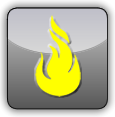
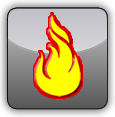
Se termina fachada de carga desde el maestro

Changed region(s): [[0.287, 0.1026, 0.7304, 0.8462]]

diff --git a/assets/js/visor.min.js b/assets/js/visor.min.js
@@ -1,1 +1,1 @@
-var VisorMapa={map:null,canvas:null,emergencyDrawingManager:null,emergencyMarker:null,emergencyRadius:null,otherDrawingManager:null,otherControlColor:null,otherControlSelected:null};(function(){var e=function(){var e=$("#iRadioEmergencia").val();if(""==e.trim())return $("#iRadioEmergencia").closest("div").addClass("has-error"),!1;if($("#iRadioEmergencia").val("0"),$("#mRadioEmergencia").modal("hide"),0==e)return!0;this.emergencyRadius=new google.maps.Circle({map:this.map,radius:parseInt(e),fillColor:"#FF0000",center:{lat:this.emergencyMarker.position.G,lng:this.emergencyMarker.position.K}});var a=new google.maps.InfoWindow({content:"Radio de la emergencia"});this.emergencyRadius.addListener("click",function(e){a.setPosition(e.latLng),a.open(this.map)})},a=function(){if(!$("#botoneraColorControl a.selected").length)return $("#botoneraColorControl").closest("div").addClass("has-error"),!1;if(!$("#iTituloComponente").val())return $("#iTituloComponente").closest("div").addClass("has-error"),!1;$("#ctrlDraw").addClass("btn-success").removeClass("btn-primary"),this.otherDrawingManager.setDrawingMode(this.otherControlSelected.overlay),this.otherDrawingManager.setMap(this.map),this.otherControlSelected.title=$("#iTituloComponente").val();for(var e=["polygonOptions","circleOptions","rectangleOptions"],a=0;a<e.length;a++)this.otherDrawingManager.set(e[a],{fillColor:this.otherControlColor});this.otherDrawingManager.set("polylineOptions",{strokeColor:this.otherControlColor}),$("#mOtrosEmergencias").modal("hide")};this.init=function(r){var o=this;this.canvas=$("#mapa").get(0),$(window).resize(this.detectHeight.bind(this));var n={center:new google.maps.LatLng(-33.0507081,-71.6110485),mapTypeId:google.maps.MapTypeId.ROADMAP,zoom:8},i=$.extend(n,r);this.detectHeight.call(this),this.map=new google.maps.Map(this.canvas,i),this.makeSearchBox.call(this),this.makeEmergencyDrawManager.call(this),this.makeOthersManager.call(this),$("#btnGuardarRadioEmergencia").click(e.bind(this)),$("#btnGuardarOtrosEmergencia").click(a.bind(this)),$("#mRadioEmergencia").on("shown.bs.modal",function(){$("#iRadioEmergencia").focus(),$("#iRadioEmergencia").select()}),$("#frmRadioEmergencia").submit(function(){return $("#btnGuardarRadioEmergencia").click(),!1}),$("#botoneraColorControl a").click(function(){$("#botoneraColorControl a i").removeClass("fa fa-check-circle-o"),$(this).find("i").addClass("fa fa-check-circle-o"),$(this).addClass("selected"),o.otherControlColor=Utils.rgb2hex($(this).css("background-color"))})},this.makeEmergencyDrawManager=function(){var e=this;this.emergencyDrawingManager=new google.maps.drawing.DrawingManager({drawingMode:google.maps.drawing.OverlayType.MARKER,drawingControl:!1,drawingControlOptions:{position:google.maps.ControlPosition.TOP_CENTER,drawingModes:[google.maps.drawing.OverlayType.MARKER]},clickable:!1,editable:!0,zIndex:1}),this.emergencyDrawingManager.setMap(null),function(a,r){var o=function(){e.emergencyDrawingManager.setDrawingMode(r),e.emergencyDrawingManager.setMap(e.map);var a=$(this).parents("div").first().find("a.btn");a.removeClass("btn-primary"),a.addClass("btn-success"),$(".ctrlPowerOff").css("display","block"),event.preventDefault(),event.stopPropagation()};$("#"+a).on("click",o)}("ctrlDrawMarker",google.maps.drawing.OverlayType.MARKER),$("#ctrlDrawOFF").click(function(){e.emergencyDrawingManager.setMap(null),e.otherDrawingManager.setMap(null);var a=$(this).parents("div").first().find("a.btn");a.removeClass("btn-success"),a.addClass("btn-primary"),$(".ctrlPowerOff").css("display","none")}),google.maps.event.addListener(this.emergencyDrawingManager,"overlaycomplete",function(a){e.emergencyMarker&&(e.emergencyMarker.setMap(null),e.emergencyRadius&&e.emergencyRadius.setMap(null));var r=new google.maps.InfoWindow({content:"Lugar de la emergencia"});if(a.type==google.maps.drawing.OverlayType.MARKER){var o=a.overlay;e.emergencyMarker=o,e.emergencyMarker.addListener("click",function(){r.open(e.map,e.emergencyMarker)}),$("#mRadioEmergencia").modal("show"),$("#iRadioEmergencia").closest("div").removeClass("has-error")}$("#ctrlDrawOFF").click()})},this.makeOthersManager=function(){var e=this;this.otherDrawingManager=new google.maps.drawing.DrawingManager({drawingMode:google.maps.drawing.OverlayType.MARKER,drawingControl:!1,drawingControlOptions:{position:google.maps.ControlPosition.TOP_CENTER,drawingModes:[google.maps.drawing.OverlayType.MARKER,google.maps.drawing.OverlayType.CIRCLE,google.maps.drawing.OverlayType.RECTANGLE,google.maps.drawing.OverlayType.POLYLINE,google.maps.drawing.OverlayType.POLYGON]},clickable:!1,editable:!0,zIndex:1}),this.otherDrawingManager.setMap(null);for(var a=[{id:"ctrlOtherDrawLine",overlay:google.maps.drawing.OverlayType.POLYLINE},{id:"ctrlOtherDrawPolygon",overlay:google.maps.drawing.OverlayType.POLYGON},{id:"ctrlOtherDrawCircle",overlay:google.maps.drawing.OverlayType.CIRCLE},{id:"ctrlOtherDrawRectangle",overlay:google.maps.drawing.OverlayType.RECTANGLE},{id:"ctrlOtherDrawMarker",overlay:google.maps.drawing.OverlayType.MARKER}],r=0;r<a.length;r++)!function(e,a){var r=function(){$("#mOtrosEmergencias").modal("show"),e.otherControlSelected=a};$("#"+a.id).on("click",r)}(this,a[r]);google.maps.event.addListener(this.otherDrawingManager,"overlaycomplete",function(a){var r=a.overlay,o=new google.maps.InfoWindow({content:e.otherControlSelected.title}),n=[google.maps.drawing.OverlayType.POLYGON,google.maps.drawing.OverlayType.CIRCLE,google.maps.drawing.OverlayType.RECTANGLE];console.log(a.type,n),-1!=n.indexOf(a.type)&&r.addListener("click",function(a){o.setPosition(a.latLng),o.open(e.map)}),$("#ctrlDrawOFF").click()})},this.loadKML=function(){var e=new google.maps.KmlLayer({url:"http://ssrv.cl/sipresa_test/kml.php",map:this.map,suppressInfoWindows:!0,preserveViewport:!1});e.addListener("click",function(e){var a=e.featureData.infoWindowHtml,r=document.getElementById("capture");r.innerHTML=a})},this.detectHeight=function(){$(this.canvas).css("height",$("html").height()-$("div.header").height()+"px")},this.makeSearchBox=function(){var e=$("#input-buscador-mapa").get(0),a=new google.maps.places.SearchBox(e),r=this,o=[];this.map.controls[google.maps.ControlPosition.TOP_LEFT].push(e),this.map.addListener("bounds_changed",function(){a.setBounds(r.map.getBounds())}),a.addListener("places_changed",function(){var e=a.getPlaces();if(0!=e.length){o.forEach(function(e){e.setMap(null)}),o=[];var n=new google.maps.LatLngBounds;e.forEach(function(e){var a={url:e.icon,size:new google.maps.Size(71,71),origin:new google.maps.Point(0,0),anchor:new google.maps.Point(17,34),scaledSize:new google.maps.Size(25,25)};o.push(new google.maps.Marker({map:r.map,icon:a,title:e.name,position:e.geometry.location})),e.geometry.viewport?n.union(e.geometry.viewport):n.extend(e.geometry.location)}),r.map.fitBounds(n)}})}}).apply(VisorMapa);
+var VisorMapa={map:null,canvas:null,emergencyDrawingManager:null,emergencyMarker:null,emergencyRadius:null,otherDrawingManager:null,otherControlColor:null,otherControlSelected:null};(function(){var e=function(){var e=$("#iRadioEmergencia").val();if(""==e.trim())return $("#iRadioEmergencia").closest("div").addClass("has-error"),!1;if($("#iRadioEmergencia").val("0"),$("#mRadioEmergencia").modal("hide"),0==e)return!0;this.emergencyRadius=new google.maps.Circle({map:this.map,radius:parseInt(e),fillColor:"#FF0000",center:{lat:this.emergencyMarker.position.G,lng:this.emergencyMarker.position.K}});var a=new google.maps.InfoWindow({content:"Radio de la emergencia"});this.emergencyRadius.addListener("click",function(e){a.setPosition(e.latLng),a.open(this.map)})},a=function(){if(!$("#botoneraColorControl a.selected").length)return $("#botoneraColorControl").closest("div").addClass("has-error"),!1;if(!$("#iTituloComponente").val())return $("#iTituloComponente").closest("div").addClass("has-error"),!1;$("#ctrlDraw").addClass("btn-success").removeClass("btn-primary"),this.otherDrawingManager.setDrawingMode(this.otherControlSelected.overlay),this.otherDrawingManager.setMap(this.map),this.otherControlSelected.title=$("#iTituloComponente").val();for(var e=["polygonOptions","circleOptions","rectangleOptions"],a=0;a<e.length;a++)this.otherDrawingManager.set(e[a],{fillColor:this.otherControlColor});this.otherDrawingManager.set("polylineOptions",{strokeColor:this.otherControlColor}),$("#mOtrosEmergencias").modal("hide")};this.init=function(n){var o=this;this.canvas=$("#mapa").get(0),$(window).resize(this.detectHeight.bind(this));var r={center:new google.maps.LatLng(-33.0507081,-71.6110485),mapTypeId:google.maps.MapTypeId.ROADMAP,zoom:8},i=$.extend(r,n);this.detectHeight.call(this),this.map=new google.maps.Map(this.canvas,i),this.makeSearchBox.call(this),this.makeEmergencyDrawManager.call(this),this.makeOthersManager.call(this),$("#btnGuardarRadioEmergencia").click(e.bind(this)),$("#btnGuardarOtrosEmergencia").click(a.bind(this)),$("#mRadioEmergencia").on("shown.bs.modal",function(){$("#iRadioEmergencia").focus(),$("#iRadioEmergencia").select()}),$("#frmRadioEmergencia").submit(function(){return $("#btnGuardarRadioEmergencia").click(),!1}),$("#botoneraColorControl a").click(function(){$("#botoneraColorControl a i").removeClass("fa fa-check-circle-o"),$(this).find("i").addClass("fa fa-check-circle-o"),$(this).addClass("selected"),o.otherControlColor=Utils.rgb2hex($(this).css("background-color"))}),this.constructControlIns.call(this)},this.constructControlIns=function(){$("#tblTiposIns").DataTable({language:{url:baseUrl+"assets/lib/DataTables-1.10.8/Spanish.json"},ajax:{url:siteUrl+"instalacion/obtenerJsonTipos",type:"GET",async:!0},columns:[{mRender:function(e,a,n){return'<input id="iTipIns'+n.aux_ia_id+'" name="iTipIns[]" type="checkbox"/>'}},{data:"amb_c_nombre"},{data:"aux_c_nombre"}],pagingType:"simple"});$("#ctrlIns").click(function(){$("#mMaestroInstalaciones").modal("show")}),$("#btnCargarIns").click(function(){this.loadKML("http://ssrv.cl/emergencias_test/eleam.php"),$("#mMaestroInstalaciones").modal("hide")})},this.makeEmergencyDrawManager=function(){var e=this;this.emergencyDrawingManager=new google.maps.drawing.DrawingManager({drawingMode:google.maps.drawing.OverlayType.MARKER,drawingControl:!1,drawingControlOptions:{position:google.maps.ControlPosition.TOP_CENTER,drawingModes:[google.maps.drawing.OverlayType.MARKER]},clickable:!1,editable:!0,zIndex:1}),this.emergencyDrawingManager.setMap(null),function(a,n){var o=function(){e.emergencyDrawingManager.setDrawingMode(n),e.emergencyDrawingManager.setMap(e.map);var a=$(this).parents("div").first().find("a.btn");a.removeClass("btn-primary"),a.addClass("btn-success"),$(".ctrlPowerOff").css("display","block"),event.preventDefault(),event.stopPropagation()};$("#"+a).on("click",o)}("ctrlDrawMarker",google.maps.drawing.OverlayType.MARKER),$("#ctrlDrawOFF").click(function(){e.emergencyDrawingManager.setMap(null),e.otherDrawingManager.setMap(null);var a=$(this).parents("div").first().find("a.btn");a.removeClass("btn-success"),a.addClass("btn-primary"),$(".ctrlPowerOff").css("display","none")}),google.maps.event.addListener(this.emergencyDrawingManager,"overlaycomplete",function(a){e.emergencyMarker&&(e.emergencyMarker.setMap(null),e.emergencyRadius&&e.emergencyRadius.setMap(null));var n=new google.maps.InfoWindow({content:"Lugar de la emergencia"});if(a.type==google.maps.drawing.OverlayType.MARKER){var o=a.overlay;e.emergencyMarker=o,e.emergencyMarker.addListener("click",function(){n.open(e.map,e.emergencyMarker)}),$("#mRadioEmergencia").modal("show"),$("#iRadioEmergencia").closest("div").removeClass("has-error")}$("#ctrlDrawOFF").click()})},this.makeOthersManager=function(){var e=this;this.otherDrawingManager=new google.maps.drawing.DrawingManager({drawingMode:google.maps.drawing.OverlayType.MARKER,drawingControl:!1,drawingControlOptions:{position:google.maps.ControlPosition.TOP_CENTER,drawingModes:[google.maps.drawing.OverlayType.MARKER,google.maps.drawing.OverlayType.CIRCLE,google.maps.drawing.OverlayType.RECTANGLE,google.maps.drawing.OverlayType.POLYLINE,google.maps.drawing.OverlayType.POLYGON]},clickable:!1,editable:!0,zIndex:1}),this.otherDrawingManager.setMap(null);for(var a=[{id:"ctrlOtherDrawLine",overlay:google.maps.drawing.OverlayType.POLYLINE},{id:"ctrlOtherDrawPolygon",overlay:google.maps.drawing.OverlayType.POLYGON},{id:"ctrlOtherDrawCircle",overlay:google.maps.drawing.OverlayType.CIRCLE},{id:"ctrlOtherDrawRectangle",overlay:google.maps.drawing.OverlayType.RECTANGLE},{id:"ctrlOtherDrawMarker",overlay:google.maps.drawing.OverlayType.MARKER}],n=0;n<a.length;n++)!function(e,a){var n=function(){$("#mOtrosEmergencias").modal("show"),e.otherControlSelected=a};$("#"+a.id).on("click",n)}(this,a[n]);google.maps.event.addListener(this.otherDrawingManager,"overlaycomplete",function(a){var n=a.overlay,o=new google.maps.InfoWindow({content:e.otherControlSelected.title}),r=[google.maps.drawing.OverlayType.POLYGON,google.maps.drawing.OverlayType.CIRCLE,google.maps.drawing.OverlayType.RECTANGLE];console.log(a.type,r),-1!=r.indexOf(a.type)&&n.addListener("click",function(a){o.setPosition(a.latLng),o.open(e.map)}),$("#ctrlDrawOFF").click()})},this.loadKML=function(e){var a=new google.maps.KmlLayer({url:e,map:this.map,suppressInfoWindows:!0,preserveViewport:!1});a.addListener("click",function(e){var a=e.featureData.infoWindowHtml,n=document.getElementById("capture");n.innerHTML=a})},this.detectHeight=function(){$(this.canvas).css("height",$("html").height()-$("div.header").height()+"px")},this.makeSearchBox=function(){var e=$("#input-buscador-mapa").get(0),a=new google.maps.places.SearchBox(e),n=this,o=[];this.map.controls[google.maps.ControlPosition.TOP_LEFT].push(e),this.map.addListener("bounds_changed",function(){a.setBounds(n.map.getBounds())}),a.addListener("places_changed",function(){var e=a.getPlaces();if(0!=e.length){o.forEach(function(e){e.setMap(null)}),o=[];var r=new google.maps.LatLngBounds;e.forEach(function(e){var a={url:e.icon,size:new google.maps.Size(71,71),origin:new google.maps.Point(0,0),anchor:new google.maps.Point(17,34),scaledSize:new google.maps.Size(25,25)};o.push(new google.maps.Marker({map:n.map,icon:a,title:e.name,position:e.geometry.location})),e.geometry.viewport?r.union(e.geometry.viewport):r.extend(e.geometry.location)}),n.map.fitBounds(r)}})}}).apply(VisorMapa);

diff --git a/assets/js/alarmas.min.js b/assets/js/alarmas.min.js
@@ -1,1 +1,1 @@
-var Alarma={};(function(){this.inicioIngreso=function(){$("#iTiposEmergencias").jCombo(siteUrl+"alarma/jsonTiposEmergencias"),$("#iComunas").jCombo(siteUrl+"session/obtenerJsonComunas",{handlerLoad:function(){$("#iComunas").picklist()},initial_text:null}),$("#fechaEmergencia, #fechaRecepcion").datetimepicker({format:"DD-MM-YYYY hh:mm"})},this.inicioListado=function(){$("#iTiposEmergencias").jCombo(siteUrl+"alarma/jsonTiposEmergencias"),$("#iEstadoAlarma").jCombo(siteUrl+"alarma/jsonEstadosAlarmas"),$("#btnBuscarAlarmas").click(this.eventoBtnBuscar),$(window).resize(function(){$("table").css("width","100%")})},this.eventoBtnBuscar=function(){var a=siteUrl+"alarma/jsonAlarmasDT",e=$("#iAnio").val(),l=$("#iTiposEmergencias").val(),s=$("#iEstadoAlarma").val();parseInt(e)&&(a+="/anio/"+e),parseInt(l)&&(a+="/tipoEmergencia/"+l),parseInt(s)&&(a+="/estado/"+s);var i=$("#tblAlarmas").DataTable();i.destroy(),$("#tblAlarmas").empty(),$.get(a).done(function(a){var e=JSON.parse(a);e.columns[0].mRender=function(a,e,l){var s="";return s+='<div class="col-md-12 shadow" style="padding: 10px;">',s+='    <div class="col-md-2 text-center"><img src="'+baseUrl+'assets/img/quimico_ico.png"/></div>',s+='    <div class="col-md-8">',s+='        <div class="form-group col-md-12">',s+='            <label for="" class="col-md-4 control-label">Fecha de la emergencia:</label>',s+='            <div class="col-md-8">',s+="                <p>"+l.ala_d_fecha_emergencia+"</p>",s+="            </div>",s+="        </div>",s+='        <div class="form-group col-md-12">',s+='            <label for="" class="col-md-4 control-label">Nombre de la emergencia:</label>',s+='            <div class="col-md-8">',s+="                <p>"+l.ala_c_nombre_emergencia+"</p>",s+="            </div>",s+="        </div>",s+='        <div class="form-group col-md-12">',s+='            <label for="" class="col-md-4 control-label">Tipo de la emergencia:</label>',s+='            <div class="col-md-8">',s+="                <p>"+l.ala_c_tipo_emergencia+"</p>",s+="            </div>",s+="        </div>",s+='        <div class="form-group col-md-12">',s+='            <label for="" class="col-md-4 control-label">Lugar de la emergencia:</label>',s+='            <div class="col-md-8">',s+="                <p>"+l.ala_c_lugar_emergencia+"</p>",s+="            </div>",s+="        </div>",s+="    </div>",s+='    <div class="col-md-2 text-center">',s+='       <div class="btn-group">',s+='           <a title="Generar emergencia" class="btn btn-default">',s+='               <i class="fa fa-exclamation-triangle"></i>',s+="            </a>",s+='           <a title="Editar" class="btn btn-default">',s+='               <i class="fa fa-pencil"></i>',s+="           </a>",s+='           <a title="Eliminar" class="btn btn-default">',s+='               <i class="fa fa-trash"></i>',s+="           </a>",s+="       </div>",s+="    </div>",s+="</div>"},$("#tblAlarmas").DataTable({data:e.data,columns:e.columns,language:{url:baseUrl+"assets/lib/DataTables-1.10.8/Spanish.json"},order:[[0,"desc"]]}),$("#pResultados").css("visibility","visible"),$("#pResultados").slideDown("slow")})},this.guardarForm=function(){if(!Utils.validaForm("frmIngresoAlarma"))return!1;var a=$("#frmIngresoAlarma").serialize();$.post(siteUrl+"alarma/ingresoPaso2",a,function(a){1==a?(bootbox.dialog({title:"Resultado de la operacion",message:"Se ha insertado correctamente",buttons:{danger:{label:"Cerrar",className:"btn-info"}}}),$("#frmIngresoAlarma")[0].reset(),$("#iComunas").picklist("destroy"),$("#iComunas").picklist()):bootbox.dialog({title:"Resultado de la operacion",message:"Error al insertar",buttons:{danger:{label:"Cerrar",className:"btn-danger"}}})})}}).apply(Alarma);
+var Alarma={};(function(){this.inicioIngreso=function(){$("#iTiposEmergencias").jCombo(siteUrl+"alarma/jsonTiposEmergencias"),$("#iComunas").jCombo(siteUrl+"session/obtenerJsonComunas",{handlerLoad:function(){$("#iComunas").picklist()},initial_text:null}),$("#fechaEmergencia, #fechaRecepcion").datetimepicker({format:"DD-MM-YYYY hh:mm"})},this.inicioListado=function(){$("#iTiposEmergencias").jCombo(siteUrl+"alarma/jsonTiposEmergencias"),$("#iEstadoAlarma").jCombo(siteUrl+"alarma/jsonEstadosAlarmas"),$("#btnBuscarAlarmas").click(this.eventoBtnBuscar),$(window).resize(function(){$("table").css("width","100%")})},this.eventoBtnBuscar=function(){var a=siteUrl+"alarma/jsonAlarmasDT",e=$("#iAnio").val(),l=$("#iTiposEmergencias").val(),i=$("#iEstadoAlarma").val();parseInt(e)&&(a+="/anio/"+e),parseInt(l)&&(a+="/tipoEmergencia/"+l),parseInt(i)&&(a+="/estado/"+i);var s=$("#tblAlarmas").DataTable();s.destroy(),$("#tblAlarmas").empty(),$.get(a).done(function(a){var e=JSON.parse(a);e.columns[0].mRender=function(a,e,l){var i="";return i+='<div class="col-md-12 shadow" style="padding: 10px;">',i+='    <div class="col-md-2 text-center"><img src="'+baseUrl+'assets/img/incendio_ico.png"/></div>',i+='    <div class="col-md-8">',i+='        <div class="form-group col-md-12">',i+='            <label for="" class="col-md-4 control-label">Fecha de la emergencia:</label>',i+='            <div class="col-md-8">',i+="                <p>"+l.ala_d_fecha_emergencia+"</p>",i+="            </div>",i+="        </div>",i+='        <div class="form-group col-md-12">',i+='            <label for="" class="col-md-4 control-label">Nombre de la emergencia:</label>',i+='            <div class="col-md-8">',i+="                <p>"+l.ala_c_nombre_emergencia+"</p>",i+="            </div>",i+="        </div>",i+='        <div class="form-group col-md-12">',i+='            <label for="" class="col-md-4 control-label">Tipo de la emergencia:</label>',i+='            <div class="col-md-8">',i+="                <p>"+l.ala_c_tipo_emergencia+"</p>",i+="            </div>",i+="        </div>",i+='        <div class="form-group col-md-12">',i+='            <label for="" class="col-md-4 control-label">Lugar de la emergencia:</label>',i+='            <div class="col-md-8">',i+="                <p>"+l.ala_c_lugar_emergencia+"</p>",i+="            </div>",i+="        </div>",i+="    </div>",i+='    <div class="col-md-2 text-center">',i+='       <div class="btn-group">',i+='           <a title="Generar emergencia" class="btn btn-default" onclick=Alarma.generaEmergencia('+l.ala_ia_id+"); >",i+='               <i class="fa fa-exclamation-triangle"></i>',i+="            </a>",i+='           <a title="Editar" class="btn btn-default">',i+='               <i class="fa fa-pencil"></i>',i+="           </a>",i+='           <a title="Eliminar" class="btn btn-default">',i+='               <i class="fa fa-trash"></i>',i+="           </a>",i+="       </div>",i+="    </div>",i+="</div>"},$("#tblAlarmas").DataTable({data:e.data,columns:e.columns,language:{url:baseUrl+"assets/lib/DataTables-1.10.8/Spanish.json"},order:[[0,"desc"]]}),$("#pResultados").css("visibility","visible"),$("#pResultados").slideDown("slow")})},this.guardarForm=function(){if(!Utils.validaForm("frmIngresoAlarma"))return!1;var a=$("#frmIngresoAlarma").serialize();$.post(siteUrl+"alarma/ingresoPaso2",a,function(a){1==a?(bootbox.dialog({title:"Resultado de la operacion",message:"Se ha insertado correctamente",buttons:{danger:{label:"Cerrar",className:"btn-info"}}}),$("#frmIngresoAlarma")[0].reset(),$("#iComunas").picklist("destroy"),$("#iComunas").picklist()):bootbox.dialog({title:"Resultado de la operacion",message:"Error al insertar",buttons:{danger:{label:"Cerrar",className:"btn-danger"}}})})},this.generaEmergencia=function(a){window.open(siteUrl+"emergencia/generaEmergencia/id/"+a,"_blank")}}).apply(Alarma);

diff --git a/assets/js/visor.js b/assets/js/visor.js
@@ -113,6 +113,42 @@ var VisorMapa = {
             $(this).addClass("selected");
             self.otherControlColor = Utils.rgb2hex($(this).css("background-color"));
         });
+
+        this.constructControlIns.call(this);
+    };
+
+    this.constructControlIns = function() {
+        var self = this;
+
+        var table = $("#tblTiposIns").DataTable({
+            language: {
+                url: baseUrl + "assets/lib/DataTables-1.10.8/Spanish.json"
+            },
+            ajax: {
+                url: siteUrl + "instalacion/obtenerJsonTipos",
+                type: "GET",
+                async: true
+            },
+            columns: [
+                {
+                    mRender: function(data, type, row) {
+                        return '<input id="iTipIns' + row.aux_ia_id + '" name="iTipIns[]" type="checkbox"/>';
+                    }
+                },
+                { data: "amb_c_nombre" },
+                { data: "aux_c_nombre" }
+            ],
+            pagingType: "simple"
+        });
+
+        $("#ctrlIns").click(function () {
+            $("#mMaestroInstalaciones").modal("show");
+        });
+
+        $("#btnCargarIns").click(function () {
+            this.loadKML("http://ssrv.cl/emergencias_test/eleam.php");
+            $("#mMaestroInstalaciones").modal("hide");
+        });
     };
 
     this.makeEmergencyDrawManager = function() {
@@ -249,9 +285,9 @@ var VisorMapa = {
         })
     };
 
-    this.loadKML = function() {
+    this.loadKML = function(url) {
         var kmlLayer = new google.maps.KmlLayer({
-            url: 'http://ssrv.cl/sipresa_test/kml.php',
+            url: url,
             map: this.map,
             suppressInfoWindows: true,
             preserveViewport: false

diff --git a/assets/lib/picklist/picklist.js b/assets/lib/picklist/picklist.js
@@ -221,19 +221,19 @@
                     "idSelectSeleccionados": self.id + "_seleccionados",
 
                     "textBtnAgregar": "",
-                    "iconBtnAgregar": "ui-icon ui-icon-arrow-1-e",
+                    "iconBtnAgregar": "fa fa-angle-right",
                     "classBtnAgregar": "btn btn-xs btn-default",
 
                     "textBtnAgregarTodos": "",
-                    "iconBtnAgregarTodos": "ui-icon ui-icon-arrowstop-1-e",
+                    "iconBtnAgregarTodos": "fa fa-angle-double-right",
                     "classBtnAgregarTodos": "btn btn-xs btn-default",
 
                     "textBtnQuitar": "",
-                    "iconBtnQuitar": "ui-icon ui-icon-arrow-1-w",
+                    "iconBtnQuitar": "fa fa-angle-left",
                     "classBtnQuitar": "btn btn-xs btn-default",
 
                     "textBtnQuitarTodos": "",
-                    "iconBtnQuitarTodos": "ui-icon ui-icon-arrowstop-1-w",
+                    "iconBtnQuitarTodos": "fa fa-angle-double-left",
                     "classBtnQuitarTodos": "btn btn-xs btn-default",
 
                     "classSelectDisponibles": "form-control",

diff --git a/assets/js/alarmas.js b/assets/js/alarmas.js
@@ -60,7 +60,7 @@ var Alarma = {};
             json.columns[0]["mRender"] = function(data, type, row) {
                 var html = "";
                 html += "<div class=\"col-md-12 shadow\" style=\"padding: 10px;\">";
-                html += "    <div class=\"col-md-2 text-center\"><img src=\"" + baseUrl + "assets/img/quimico_ico.png\"/></div>";
+                html += "    <div class=\"col-md-2 text-center\"><img src=\"" + baseUrl + "assets/img/incendio_ico.png\"/></div>";
                 html += "    <div class=\"col-md-8\">";
                 html += "        <div class=\"form-group col-md-12\">";
                 html += "            <label for=\"\" class=\"col-md-4 control-label\">Fecha de la emergencia:</label>";

diff --git a/application/views/pages/visor/visor.php b/application/views/pages/visor/visor.php
@@ -36,7 +36,6 @@
     </div>
 </div>
 
-<a class="btn btn-primary" data-toggle="modal" href='#mOtrosEmergencias'>Trigger modal</a>
 <div class="modal fade" id="mOtrosEmergencias" data-backdrop="static" data-keyboard="false">
     <div class="modal-dialog">
         <div class="modal-content">
@@ -79,13 +78,55 @@
                 </form>
             </div>
             <div class="modal-footer">
+                <button id="btnCancelarOtrosEmergencia" type="button" class="btn btn-danger" data-dismiss="modal">Cancelar</button>
                 <button id="btnGuardarOtrosEmergencia" type="button" class="btn btn-primary">Guardar</button>
             </div>
         </div>
     </div>
 </div>
 
+<div class="modal fade" id="mMaestroInstalaciones">
+    <div class="modal-dialog modal-lg">
+        <div class="modal-content">
+            <div class="modal-header">
+                <button type="button" class="close" data-dismiss="modal" aria-hidden="true">&times;</button>
+                <h4 class="modal-title">Cargar instalaciones</h4>
+            </div>
+            <div class="modal-body">
+                <div class="table-responsive">
+                    <table id="tblTiposIns" class="table table-bordered table-striped">
+                        <thead>
+                            <tr>
+                                <th></th>
+                                <th>Ámbito</th>
+                                <th>Tipo de instalación</th>
+                            </tr>
+                        </thead>
+                        <tbody></tbody>
+                        <tfoot>
+                            <tr>
+                                <th></th>
+                                <th>Ámbito</th>
+                                <th>Tipo de instalación</th>
+                            </tr>
+                        </tfoot>
+                    </table>                
+                </div>
+            </div>
+            <div class="modal-footer">
+                <button type="button" class="btn btn-danger" data-dismiss="modal">Cancelar</button>
+                <button id="btnCargarIns" type="button" class="btn btn-primary">Cargar</button>
+            </div>
+        </div>
+    </div>
+</div>
+
+<?= loadCSS("assets/lib/DataTables-1.10.8/css/dataTables.bootstrap.css") ?>
+<?= loadJS("assets/lib/DataTables-1.10.8/js/jquery.dataTables.js") ?>
+<?= loadJS("assets/lib/DataTables-1.10.8/js/dataTables.bootstrap.js") ?>
+
 <?= loadJS("assets/js/visor.js") ?>
+
 <script type="text/javascript">
     $(document).ready(function() {
         VisorMapa.init();

diff --git a/application/views/templates/visor.php b/application/views/templates/visor.php
@@ -51,10 +51,10 @@
                     <label>Código Emergencia:</label>&nbsp;<span>1</span>
                 </div>
                 <div class="row">
-                    <label>Nombre Emergencia:</label>&nbsp;<span>Demo</span>
+                    <label>Nombre Emergencia:</label>&nbsp;<span>Incendio forestal próximo a la zona industrial de Placilla</span>
                 </div>
                 <div class="row">
-                    <label>Tipo Emergencia:</label>&nbsp;<span>Demo loco</span>
+                    <label>Tipo Emergencia:</label>&nbsp;<span>Emergencia Química</span>
                 </div>
             </div>
         </div>
@@ -133,6 +133,17 @@
                 </ul>
             </div>
 
+            <a id="ctrlIns" title="Maestro de instalaciones" class="btn btn-primary pull-right">
+                <i class="fa fa-building"></i>
+            </a>
+
+            <a href="#" title="Muestra información" class="btn btn-primary pull-right">
+                <i class="fa fa-info-circle"></i>
+            </a>
+
+            <a href="#" title="Capas" class="btn btn-primary pull-right">
+                <i class="fa fa-clone"></i>
+            </a>
         </div>
     </div>
     <div class="main col-md-12 col-xs-12">

diff --git a/application/models/tipo_instalacion_model.php b/application/models/tipo_instalacion_model.php
@@ -1,0 +1,30 @@
+<?php if (!defined('BASEPATH')) exit('No direct script access allowed');
+
+/**
+ * User: claudio
+ * Date: 09-09-15
+ * Time: 02:30 PM
+ */
+class Tipo_Instalacion_Model extends CI_Model {
+
+    public function obtenerTodos() {
+        $sql = "
+        select
+            ti.*,
+            a.*
+        from
+            auxiliar_tipoinstalacion ti
+            inner join ambitos_vs_tipos at on ti.aux_ia_id = at.tip_ia_id
+            inner join ambitos a on a.amb_ia_id = at.amb_ia_id
+        ";
+        
+        $query = $this->db->query($sql);
+
+        $resultados = array();
+
+        if ($query->num_rows() > 0)
+            $resultados = $query->result_array();
+
+        return $resultados;
+    }
+}

diff --git a/application/controllers/instalacion.php b/application/controllers/instalacion.php
@@ -1,0 +1,24 @@
+<?php
+
+if (!defined("BASEPATH"))
+    exit("No direct script access allowed");
+
+/**
+ * User: claudio
+ * Date: 09-09-15
+ * Time: 03:05 PM
+ */
+class Instalacion extends CI_Controller {
+
+    public function obtenerJsonTipos() {
+        $this->load->helper("session");
+
+        sessionValidation();
+
+        $this->load->model("tipo_instalacion_model", "TipoInstalacion");
+
+        $tipos = $this->TipoInstalacion->obtenerTodos();
+
+        echo json_encode(array("data" => $tipos));
+    }
+}

diff --git a/application/views/pages/alarma/ingreso.php b/application/views/pages/alarma/ingreso.php
@@ -97,10 +97,7 @@
 <?= loadCSS("assets/lib/bootstrap-datetimepicker/css/bootstrap-datetimepicker.css") ?>
 <?= loadJS("assets/lib/bootstrap-datetimepicker/js/bootstrap-datetimepicker.min.js") ?>
 
-<?= loadCSS("assets/lib/jquery-ui-1.11.4/jquery-ui.css") ?>
-
 <?= loadJS("assets/js/bootbox.min.js") ?>
-
 <?= loadJS("assets/js/alarmas.js") ?>
 
 <script type="text/javascript">
